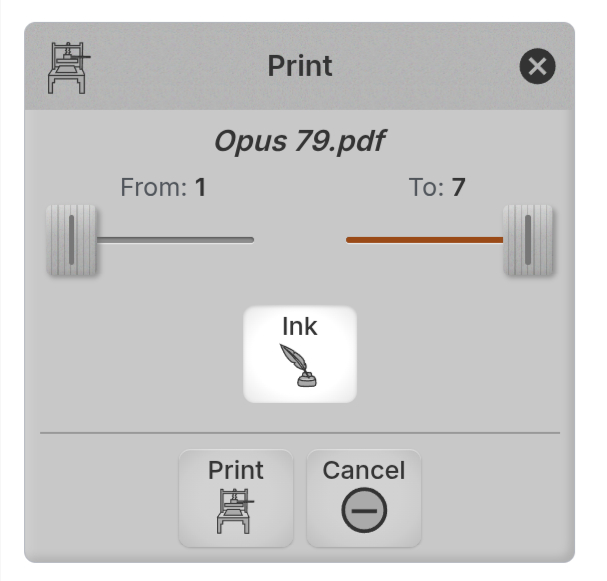
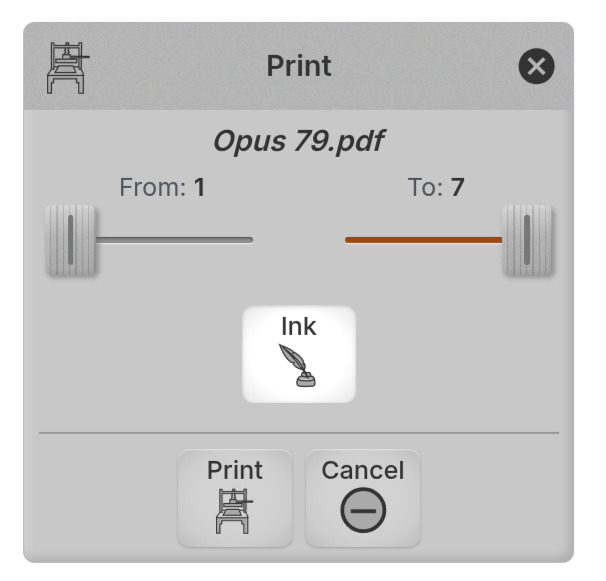
Guidebook: continuous link underlines, "See" outside chapter links, trim screenshot edges
Links get a 1px underline offset below the descenders, so it no longer
breaks around them. The nine "See Chapter N" links now start at
"Chapter". Three screenshots lose a grey left column left by the
capture tool.

diff --git a/doc/Guidebook.html b/doc/Guidebook.html
@@ -77,6 +77,8 @@
         a {
             color: #176594;
             text-decoration: underline;
+            text-underline-offset: 0.28em;
+            text-decoration-thickness: 1px;
         }
 
         a:hover {
@@ -919,7 +921,7 @@ function closeVideo(event, container) {
         <p class="video-status" role="status"></p>
     </figure>
 
-    <p><a href="#score" class="chapter-link">See Chapter 4: Score Ring</a> for complete file management details</p>
+    <p>See <a href="#score" class="chapter-link">Chapter 4: Score Ring</a> for complete file management details</p>
 
     <h4>2. Choose Your Layout</h4>
     <p>Once your score is open, tap the inner ring's Layout cell. The outer ring will show 4 layout options:</p>
@@ -950,7 +952,7 @@ function closeVideo(event, container) {
         <p class="video-status" role="status"></p>
     </figure>
 
-    <p><a href="#layout" class="chapter-link">See Chapter 5: Layout Ring</a> for detailed layout controls and settings</p>
+    <p>See <a href="#layout" class="chapter-link">Chapter 5: Layout Ring</a> for detailed layout controls and settings</p>
 
     <h4>3. Navigate and Annotate</h4>
     <p><strong>Navigation:</strong> Tap, swipe, or fling score pages to turn them. Long-press anywhere on the score or the background to summon the menu. To hide the menu, fling it to any corner or edge, or long-press its center grip to park it in the upper left corner.</p>
@@ -980,7 +982,7 @@ function closeVideo(event, container) {
     </figure>
     <div class="note">Most Ink tools <a href="#auto-deactivation" class="chapter-link">automatically deactivate</a> after four seconds of inactivity, so you won't accidentally add an annotation when you wanted to navigate to a different page. You can override this by <a href="#cell-locking" class="chapter-link">locking the cell</a>: long-press it and a small circle will appear on its outer edge. Press the cell again (or activate a different cell) to unlock.</div>
 
-    <p><a href="#ink" class="chapter-link">See Chapter 6: Ink Ring</a> for complete annotation tools and techniques</p>
+    <p>See <a href="#ink" class="chapter-link">Chapter 6: Ink Ring</a> for complete annotation tools and techniques</p>
 
     <h3>Essential Interface Tips:</h3>
 
@@ -1007,13 +1009,13 @@ function closeVideo(event, container) {
         <p class="video-status" role="status"></p>
     </figure>
 
-    <p><a href="#interface" class="chapter-link">See Chapter 3: Interface Basics</a> for complete interface details</p>
+    <p>See <a href="#interface" class="chapter-link">Chapter 3: Interface Basics</a> for complete interface details</p>
 
     <h4>Panels</h4>
     <p>Cells with small diamond-shaped pointers (like compass points) conceal panels used to configure the cell. Drag out from these cells to reveal the panel. Using this touch-drag-release motion, you can open and position any panel with a single gesture. Once open, you can always reposition a panel by dragging on its textured header. Hide any panel by flinging it, in any direction, from the header. Alternatively, close it by tapping the &#x1F5D9; button.</p>
 
     <h4>Resizing and Moving</h4>
-    <p>We've just seen that panels can be moved by dragging on their textured header. In addition, everything in Podium—menu, panels, layouts—is resizable and movable using two-finger pinch-and-pan gestures (or Ctrl+mouse/Ctrl+wheel for desktop). <a href="#interface" class="chapter-link">See Chapter 3: Interface Basics</a> for details.</p>
+    <p>We've just seen that panels can be moved by dragging on their textured header. In addition, everything in Podium—menu, panels, layouts—is resizable and movable using two-finger pinch-and-pan gestures (or Ctrl+mouse/Ctrl+wheel for desktop). See <a href="#interface" class="chapter-link">Chapter 3: Interface Basics</a> for details.</p>
 
     <h4>Gestures:</h4>
     <ul>
@@ -1038,7 +1040,7 @@ function closeVideo(event, container) {
         <p class="video-status" role="status"></p>
     </figure>
 
-    <p><a href="#score" class="chapter-link">See Chapter 4: Score Ring</a> for saving, printing, and score details</p>
+    <p>See <a href="#score" class="chapter-link">Chapter 4: Score Ring</a> for saving, printing, and score details</p>
 
     <h3>Managing Pages</h3>
     <p>To add, remove, or rearrange pages, tap the inner ring's Page cell. The outer ring provides:</p>
@@ -1072,7 +1074,7 @@ function closeVideo(event, container) {
 
     <div class="note"><strong>Quick tip:</strong> In <a href="#table-reorder" class="chapter-link">Table layout</a>, you can reorder pages by simply dragging them to a new location; other pages split apart to show where the page will be inserted. You can also cut pages by dragging them completely out of the layout. These gestures are usually faster than using Page Ring tools.</div>
 
-    <p><a href="#page" class="chapter-link">See Chapter 7: Page Ring</a> for complete page management features</p>
+    <p>See <a href="#page" class="chapter-link">Chapter 7: Page Ring</a> for complete page management features</p>
 
     <h3>Practice Tools</h3>
     <p>Tap the inner ring's More cell to access a suite of musician's practice tools. Most of these panels can be detached from their headers and positioned anywhere on screen for convenient access while practicing:</p>
@@ -1090,11 +1092,11 @@ function closeVideo(event, container) {
         <figcaption>Screenshot showing Review, Metronome, Stopwatch, Clock, Volume, Keyboard and Piano panels open simultaneously</figcaption>
     </figure>
 
-    <p><a href="#more" class="chapter-link">See Chapter 9: More Ring</a> for detailed information on each practice tool</p>
+    <p>See <a href="#more" class="chapter-link">Chapter 9: More Ring</a> for detailed information on each practice tool</p>
 
     <h3>Keyboard and Pedal Support</h3>
     <p>Podium works with Bluetooth and USB foot pedal page turners that send arrow key or Page Up/Down presses. Configure arrow key behavior in the Page Ring's Numbers panel to map pedal presses to page turns or bookmark navigation.</p>
-    <p><a href="#page-numbers" class="chapter-link">See Chapter 7: Page Ring - Numbers</a> for keyboard shortcut configuration</p>
+    <p>See <a href="#page-numbers" class="chapter-link">Chapter 7: Page Ring - Numbers</a> for keyboard shortcut configuration</p>
 
     <h3>Need Help?</h3>
     <p>Tap the inner ring's App cell, then tap the Guide cell to access this document. Once the Guide is open, tapping on UI elements will scroll the Guide to the relevant section.</p>
